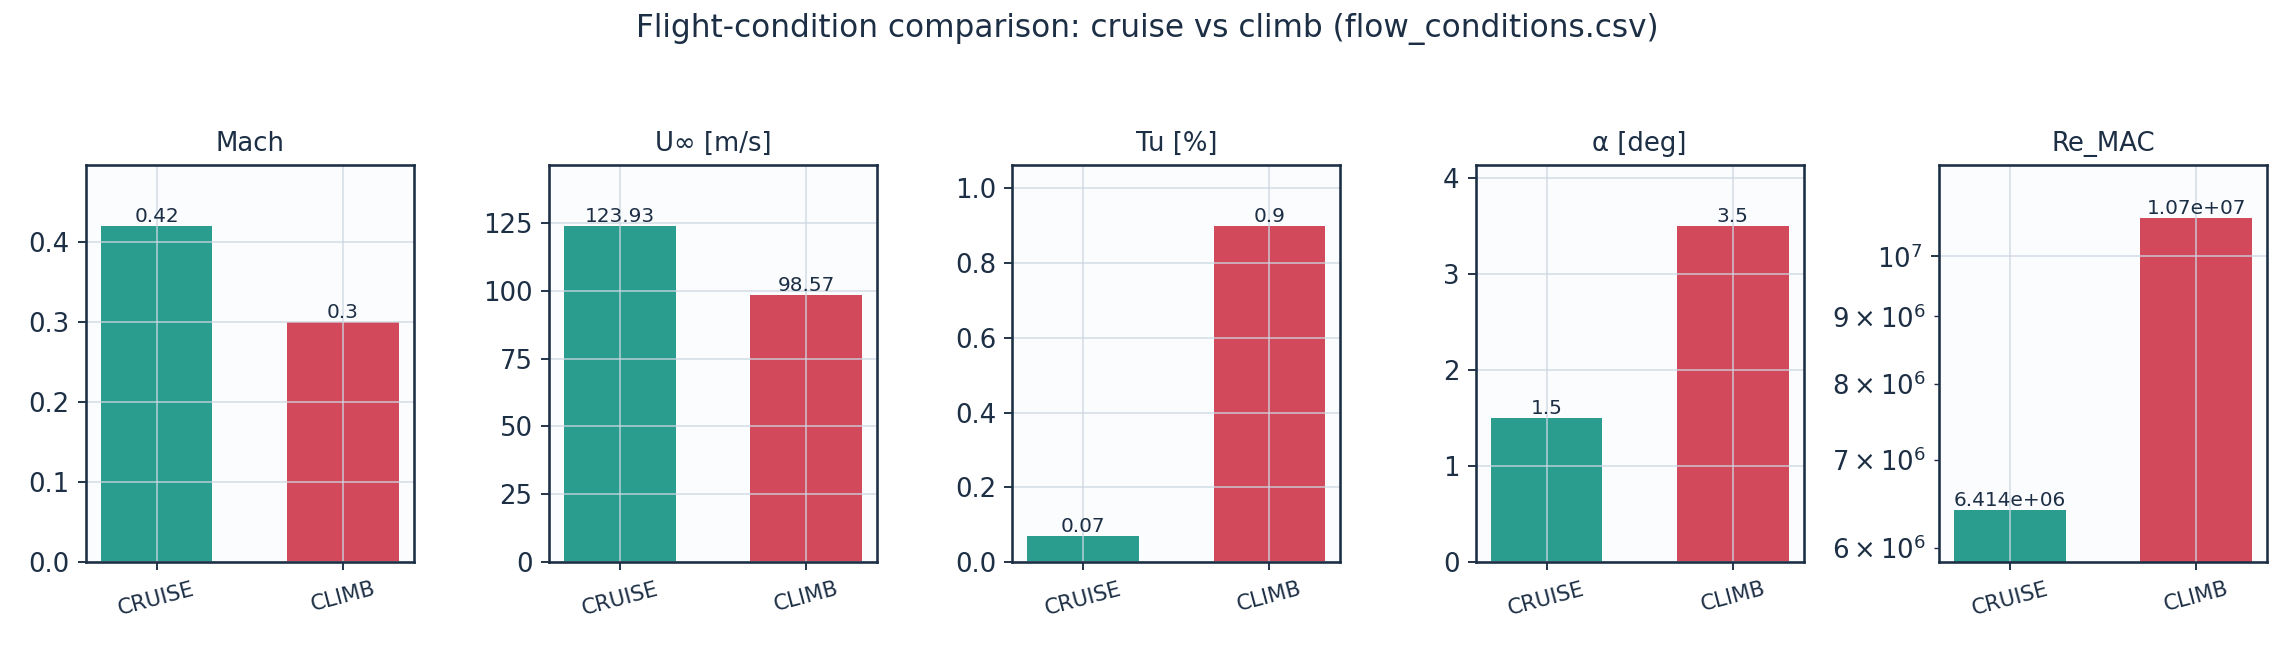
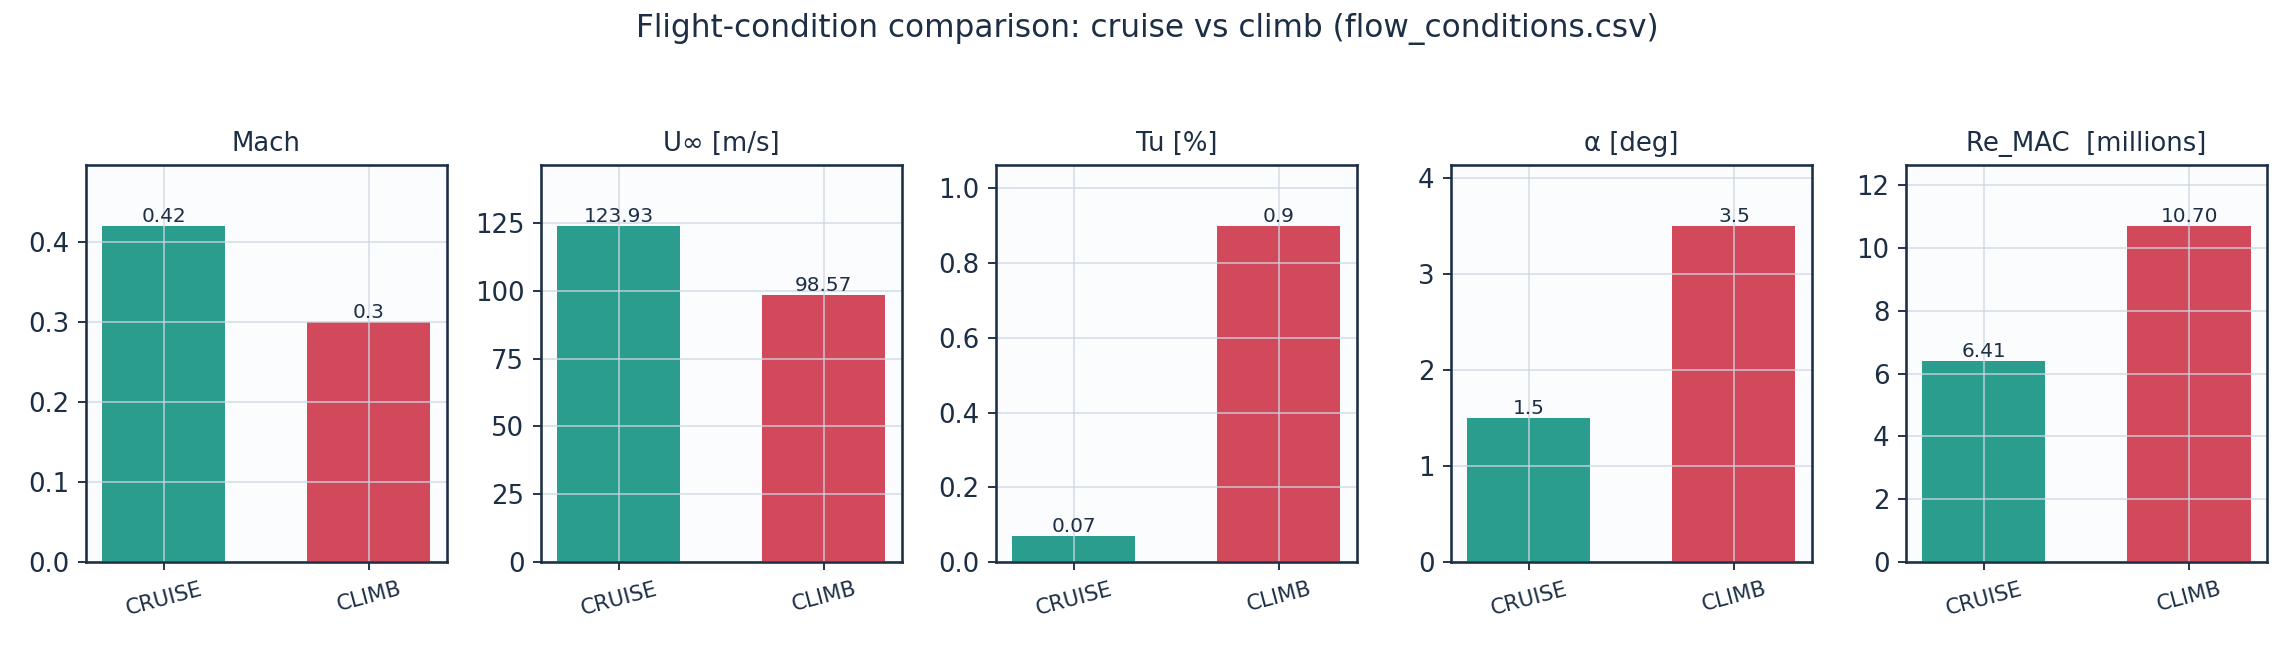
A figure in the report and the README that had been unreadable
Pass twelve, by looking at the pictures rather than the numbers behind them.

06_validation/plots/val_combined_Re_theta_t.png - the headline validation
figure, in the report and in the README's figure table - rendered all ten of
its bars as full-height columns running off the top of the frame, with their
value labels written over the title and a single tick on the axis.  set_ylim
was called and then set_yscale("log") replaced the limits, and bars drawn from
a zero baseline have no bottom on a log axis at all.  Linear now, with the
label offset a fraction of the range: five plates spanning 168 to 1101 is a
factor of 6.6, well inside what a linear axis shows, and a bar chart needs the
zero baseline it draws from.  Its x axis also read "T3AM" - a filename-safe
spelling of the T3A- plate that every other artefact writes as T3A- - so a
reader comparing the figure with the table beside it saw two names for one
plate.

The same fault, milder, in the flight-condition panel: Re_MAC on a log axis,
where a bar's length is no longer proportional to its value.  1.07e7 against
6.41e6 is a factor of 1.67 and it read as about four.  Linear, in millions.

An AST check now fails on any axis whose limit is set before its scale, on the
same receiver in the same function.  Verified by reinstating the exact fault,
which it reports by file, line and function.  It is a source-level fault with
no runtime symptom other than the picture, which is why nothing caught it.
[…]

diff --git a/gen_validation.py b/gen_validation.py
@@ -1596,6 +1596,17 @@ def plot_case(key):
     finish(fig,f"{VP}/val_{key}.png",
            caption=f"Source: {v['source'][:95]}...")
 
+def _short(key):
+    """The case key as the report and the README write it.
+
+    "T3AM" is a filename-safe spelling of the ERCOFTAC T3A- plate, and every
+    other artefact in this project calls that plate T3A-.  The combined figure
+    was labelling its axis with the key, so a reader comparing the figure with
+    the table beside it saw two names for one plate.
+    """
+    return {"T3AM": "T3A\u207b"}.get(key, key)
+
+
 def plot_combined(df_sum):
     fig,ax=new_fig(8.6,5.4)
     cases=list(CASES)
@@ -1607,16 +1618,26 @@ def plot_combined(df_sum):
     pred=[lookup[k] for k in cases]
     ax.bar(x-w/2,exp,w,color=PALETTE[1],label="experiment Re_θt")
     ax.bar(x+w/2,pred,w,color=PALETTE[0],label="UTSS predicted Re_θt")
-    # a constant offset on a log axis is a large gap at Re_theta = 180 and no
-    # gap at all at 1160; scale it instead
+    # LINEAR, and the limit set after nothing.  This axis was set to "log"
+    # AFTER set_ylim, so the limit was discarded; and bars drawn from a zero
+    # baseline have no bottom on a log axis at all, so every one of the ten
+    # rendered as a full-height column running off the top of the frame with
+    # its value label written over the title.  The figure is in the report and
+    # in the README's figure table, and it had been unreadable in both.
+    #
+    # A bar chart needs the zero baseline it draws from, and these five plates
+    # span 168 to 1101 - a factor of 6.6, well inside what a linear axis
+    # shows.  The label offset is a fraction of the RANGE, which is what the
+    # old comment was reaching for when it scaled by 1.04 on a log axis.
+    top = max(max(exp),max(pred))*1.18
     for xi,(e,p) in enumerate(zip(exp,pred)):
-        ax.text(xi-w/2,e*1.04,f"{e:.0f}",ha="center",fontsize=10,color=INK)
-        ax.text(xi+w/2,p*1.04,f"{p:.0f}",ha="center",fontsize=10,color=INK)
-    ax.set_ylim(top=max(max(exp),max(pred))*1.35)
-    ax.set_yscale("log"); ax.set_xticks(x); ax.set_xticklabels(cases)
+        ax.text(xi-w/2,e+0.018*top,f"{e:.0f}",ha="center",fontsize=10,color=INK)
+        ax.text(xi+w/2,p+0.018*top,f"{p:.0f}",ha="center",fontsize=10,color=INK)
+    ax.set_ylim(0, top)
+    ax.set_xticks(x); ax.set_xticklabels([_short(k) for k in cases])
     ax.set_ylabel("transition-onset  Re_θt")
     ax.set_title("Universal validation: transition-onset Re_θt, one calibration set")
-    ax.legend(fontsize=10)
+    ax.legend(fontsize=10, loc="upper left")
     finish(fig,f"{VP}/val_combined_Re_theta_t.png")
 
 if __name__=="__main__":

diff --git a/tools/smoke.py b/tools/smoke.py
@@ -1196,6 +1196,48 @@ def sally_n_factors_sit_on_the_conditions_they_were_computed_for():
         % (got, want)
 
 
+@check
+def no_axis_limit_is_set_before_its_scale():
+    """set_ylim before set_yscale silently discards the limit"""
+    import ast
+    # This is how the combined validation figure came to render all ten of its
+    # bars as full-height columns running off the top of the frame, with their
+    # value labels written over the title, in both the report and the README:
+    # set_ylim was called, and then set_yscale("log") replaced the limits.  It
+    # is a source-level fault with no runtime symptom other than the picture,
+    # which is why nothing caught it for so long.
+    pairs = {"set_ylim": ("set_yscale", "semilogy", "loglog"),
+             "set_xlim": ("set_xscale", "semilogx", "loglog")}
+    bad = []
+    for f in ("gen_validation.py", "gen_postprocessing.py", "gen_mesh_setup.py",
+              "gen_geometry.py", "gen_assets.py", "build_docx.py"):
+        p = os.path.join(os.path.dirname(os.path.dirname(
+            os.path.abspath(__file__))), f)
+        if not os.path.exists(p):
+            continue
+        tree = ast.parse(open(p).read())
+        for fn in [n for n in ast.walk(tree) if isinstance(n, ast.FunctionDef)]:
+            calls = []
+            for n in ast.walk(fn):
+                if isinstance(n, ast.Call) and isinstance(n.func, ast.Attribute):
+                    # only the same receiver counts: one long function can hold
+                    # several axes, and comparing across them is a false alarm
+                    recv = getattr(n.func.value, "id", None)
+                    if recv:
+                        calls.append((n.lineno, recv, n.func.attr))
+            calls.sort()
+            for i, (ln, recv, a) in enumerate(calls):
+                if a not in pairs:
+                    continue
+                for l2, r2, b in calls[i+1:]:
+                    if r2 == recv and b in pairs[a]:
+                        bad.append("%s:%d %s.%s() then %s() at line %d in %s"
+                                   % (f, ln, recv, a, b, l2, fn.name))
+                        break
+    assert not bad, "an axis limit is set before its scale:\n   " + \
+        "\n   ".join(bad)
+
+
 def main():
     only = None
     if "-k" in sys.argv:

diff --git a/gen_postprocessing.py b/gen_postprocessing.py
@@ -14,7 +14,7 @@ from uplot import (apply_style, INK, INK_SOFT, PALETTE, FIELD_CMAP, CF_CMAP,
                    GAMMA_CMAP, new_fig, finish)
 import matplotlib.pyplot as plt
 from matplotlib.lines import Line2D
-from matplotlib.ticker import MaxNLocator
+from matplotlib.ticker import MaxNLocator, FuncFormatter
 
 def _chord_interp(xs, vals, xq):
     """Interpolate a surface quantity onto a chordwise station list.
@@ -787,9 +787,17 @@ def plot_remaining_csvs():
     for ax,(k,lab) in zip(axs,keys):
         ax.bar(names,fc[k],color=[PALETTE[2],PALETTE[1]],width=0.6)
         ax.set_title(lab,fontsize=11); ax.tick_params(axis="x",labelrotation=15,labelsize=9)
-        if k=="Re_MAC": ax.set_yscale("log")
+        # Re_MAC was on a log axis, and a bar whose baseline is not zero no
+        # longer has a length proportional to its value: 1.07e7 against
+        # 6.41e6 is a factor of 1.67 and it read as about four.  Linear, in
+        # millions, which is the only panel that needs a unit in its label.
         for i,v in enumerate(fc[k]):
-            ax.text(i,v,f"{v:g}",ha="center",va="bottom",fontsize=8.5,color=INK)
+            ax.text(i,v,("%.2f" % (v/1e6)) if k=="Re_MAC" else f"{v:g}",
+                    ha="center",va="bottom",fontsize=8.5,color=INK)
+        if k=="Re_MAC":
+            ax.set_title(lab+"  [millions]",fontsize=11)
+            ax.yaxis.set_major_formatter(
+                FuncFormatter(lambda y,_: "%g"%(y/1e6)))
         ax.margins(y=0.18)
     fig.suptitle("Flight-condition comparison: cruise vs climb (flow_conditions.csv)",
                  color=INK)
